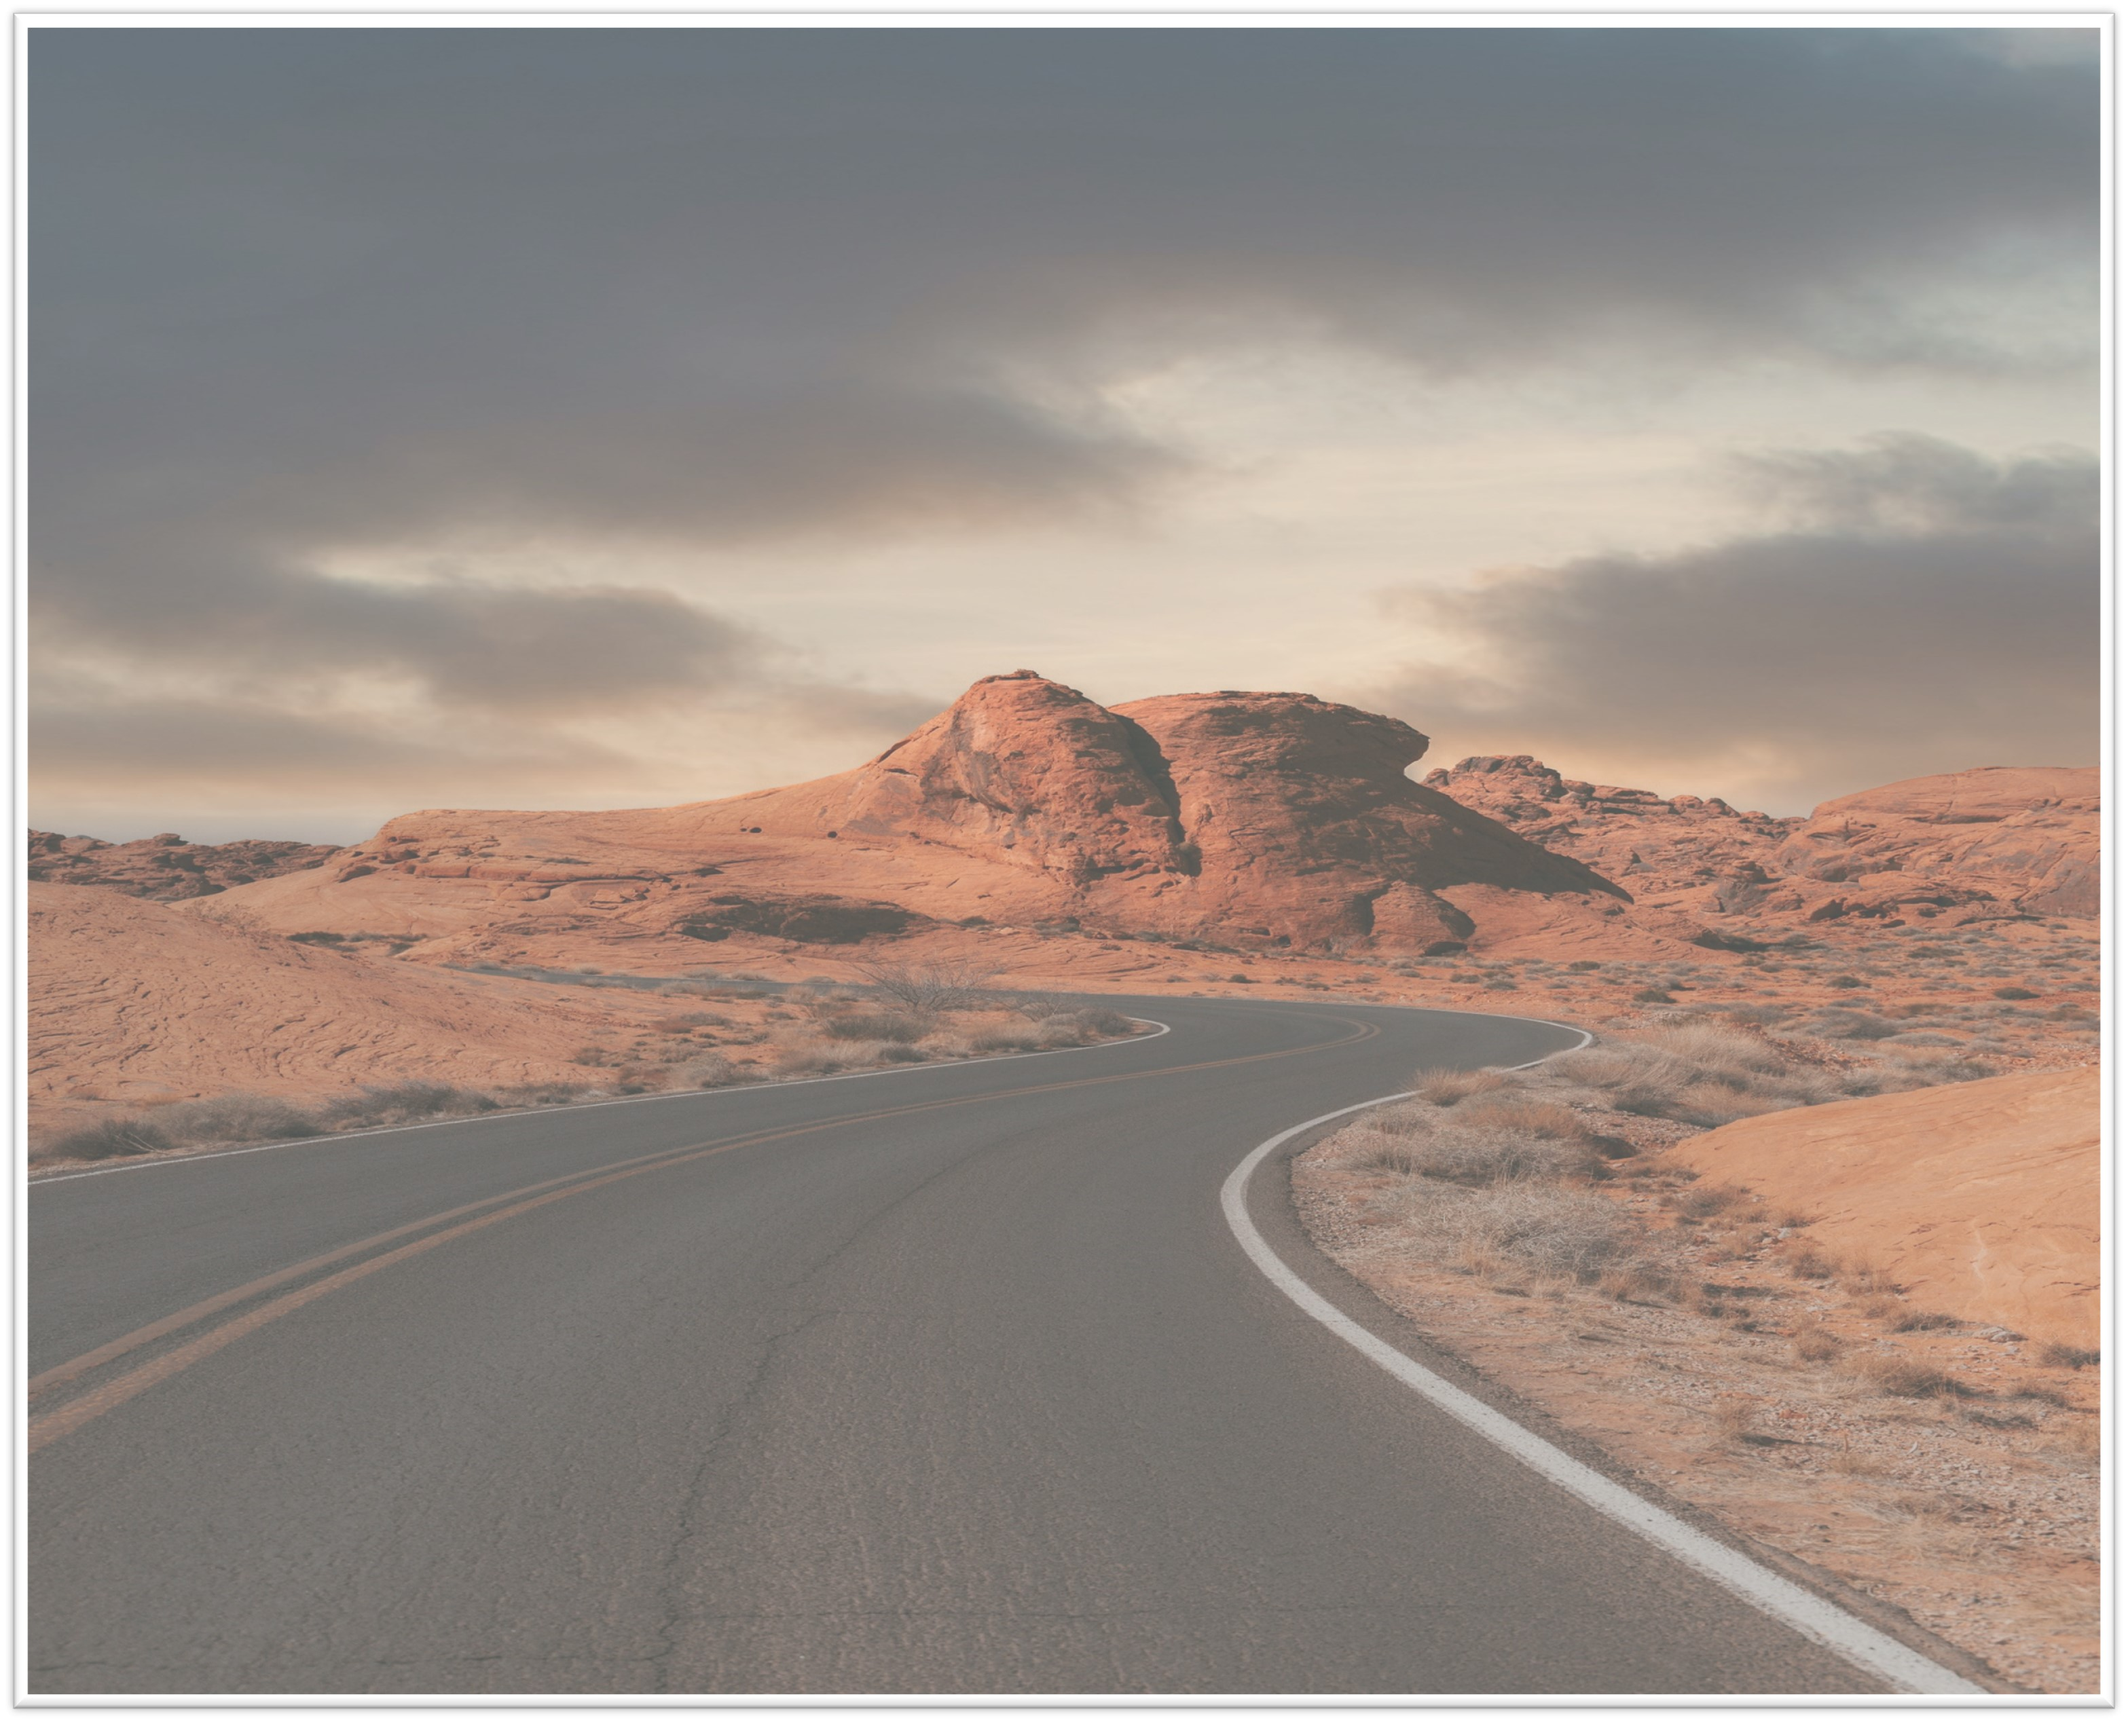
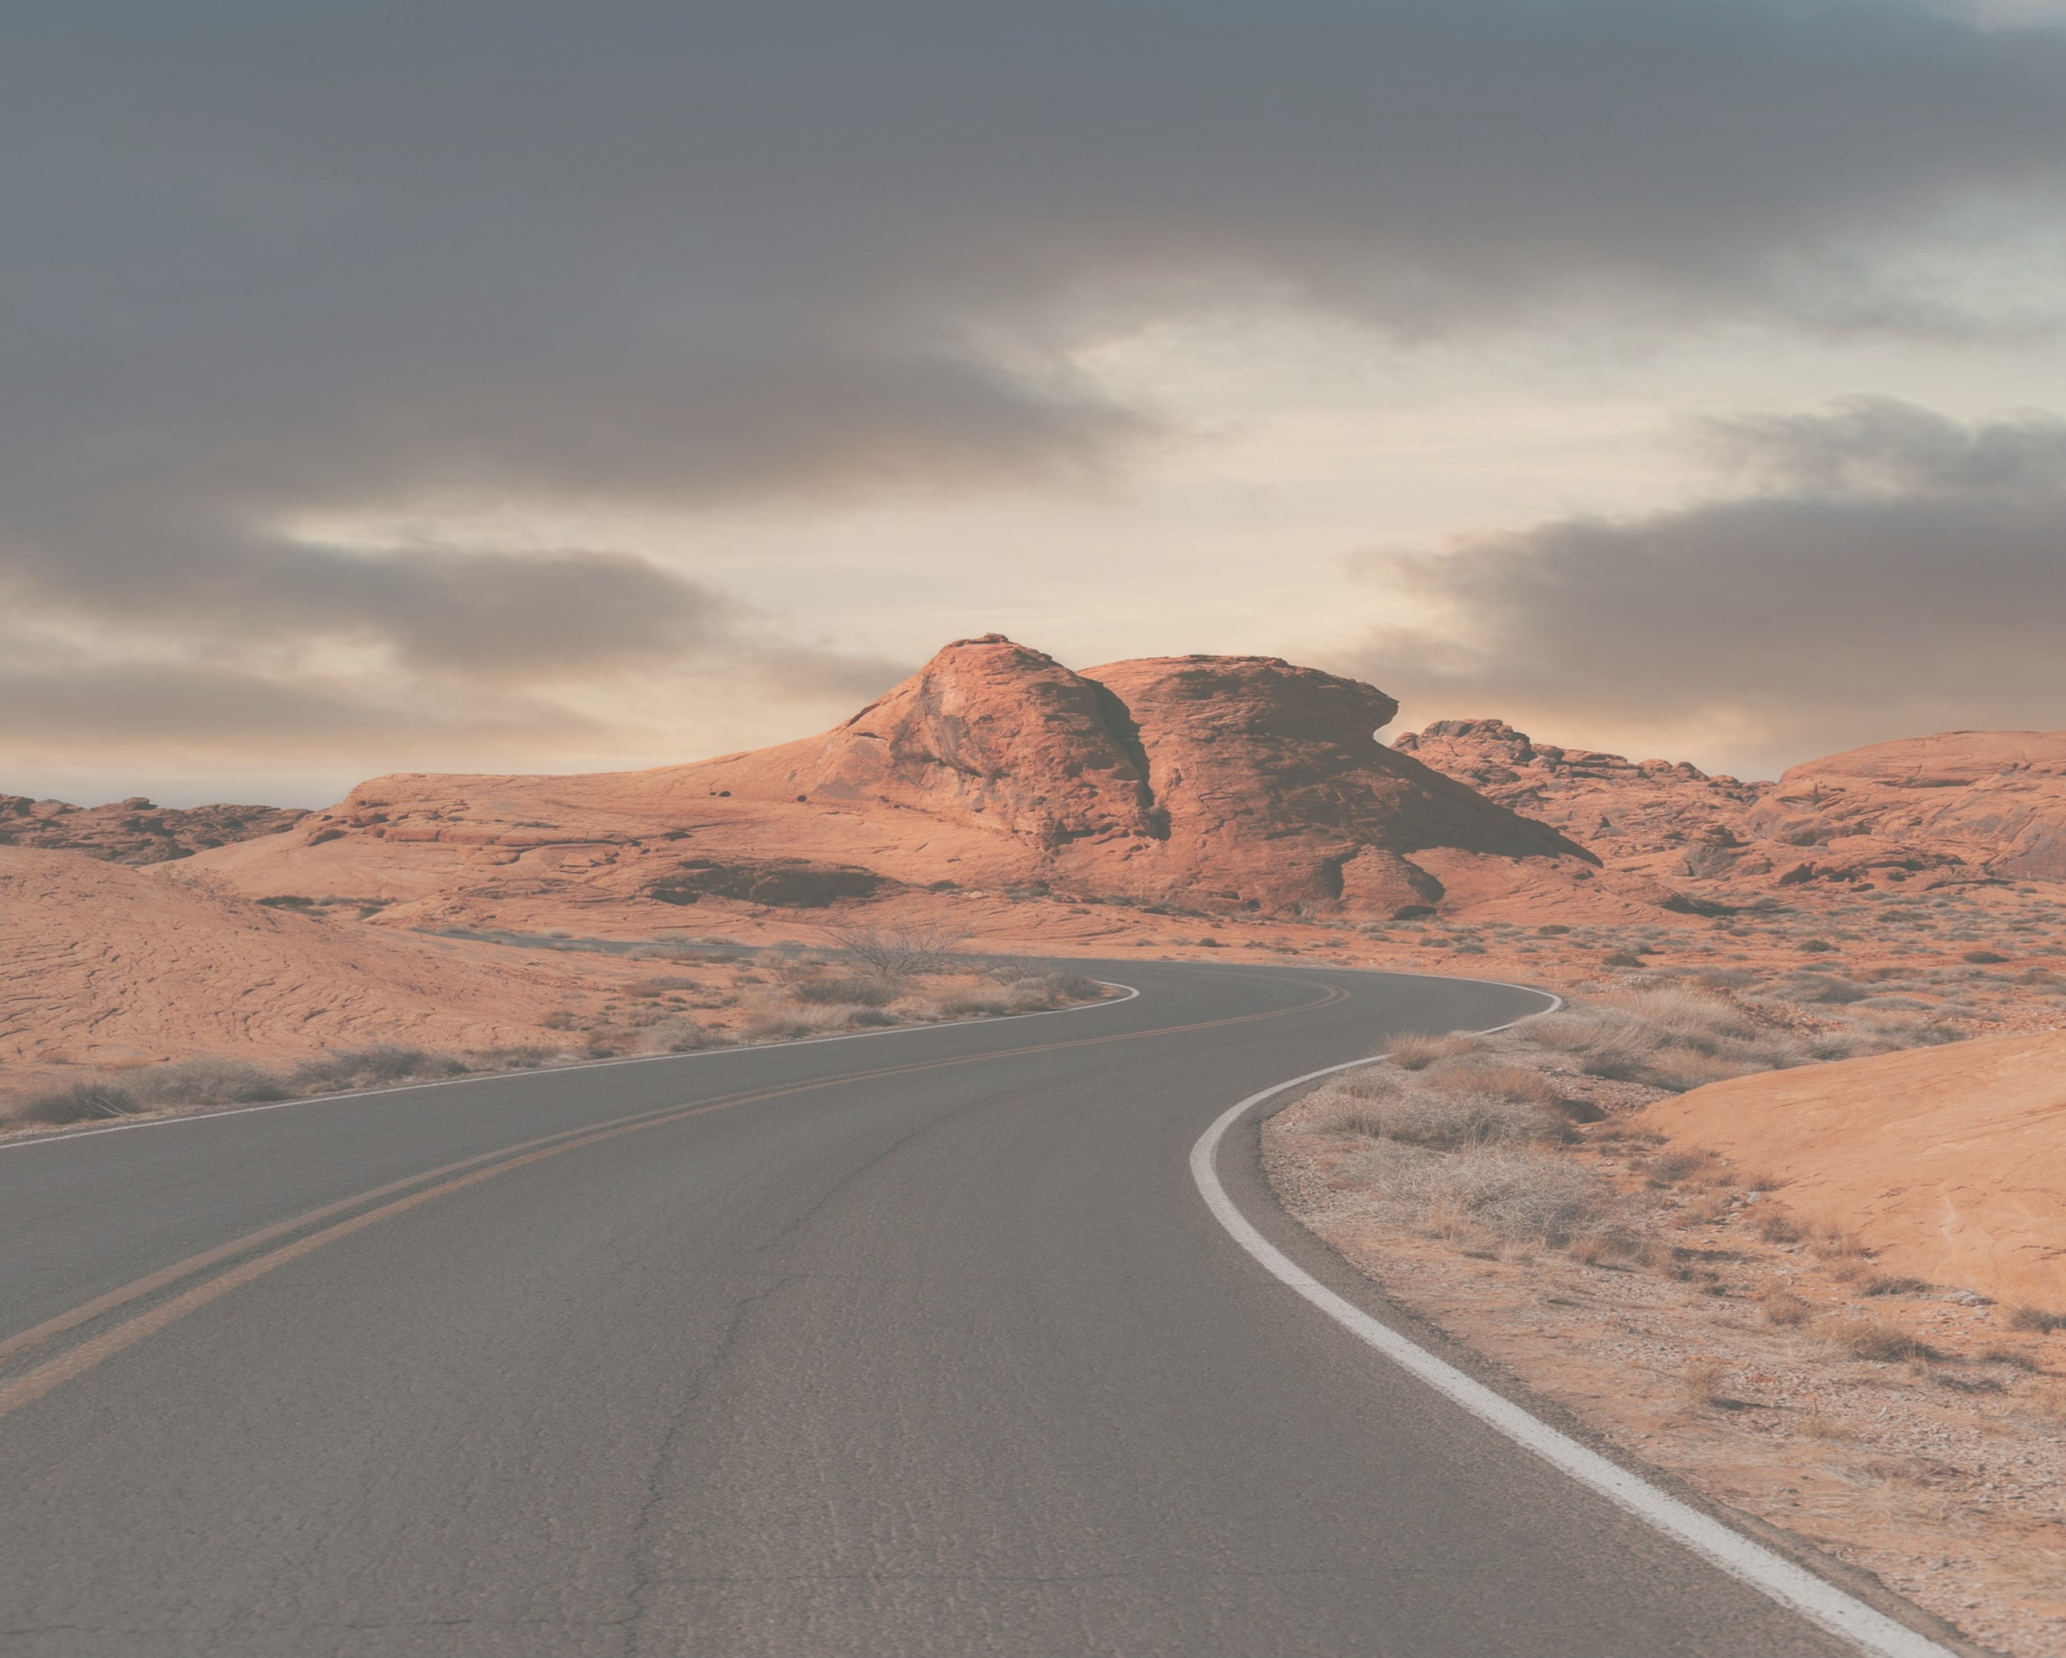
navbar scroll

diff --git a/assets/style.css b/assets/style.css
@@ -1,16 +1,22 @@
-body {
+body,html {
+    height: 100%;
+    margin: 0;
+}
+
+
+/* body {
     background-color: #969696;
     margin: 0px;
     margin-left: 550px;
     padding-top: 200px;
     border: 0px #969696;
 
-}
+} */
 
 .hi {
     color: #ffe174;
     font-family: montserrat;
-    font-weight: lighter;
+    font-weight: 275;
     font-size: 2.0em;
     margin-bottom: 0px;  
 }
@@ -21,34 +27,50 @@ body {
     font-size: 4.0em;
     padding-top: 0px;
     margin-top: 10px;
-    margin-bottom: 40px;    
+    margin-bottom: 10px;    
 }
 
 .desc {
     color: whitesmoke;
     font-family: montserrat;
-    font-weight: lighter;
+    font-weight: 275;
     font-size: 1.5em;
     margin-top: 0px;
 }
 
 button {
-    background-color:#969696;
-    color: rgb(42, 40, 40);
+    background-color:#96969698;
+    color: whitesmoke;
     font-family: montserrat;
     font-size: 20px;
+    font-weight: 500;
     padding: 5px 5px;
     text-align: center;
     border: 3px solid #ffe174;
     border-radius: 30px;
-    margin-top: 250px;
+    margin-top: 200px;
     margin-left: 200px;
    
 }
 
 button:hover {
-    background-color: rgb(219, 81, 31);
+    background-color: rgba(255, 255, 0, 0.569);
     border: none;
+}
+
+.hero {
+    background-image: linear-gradient(rgba(210, 205, 205, 0.596), rgba(0, 0, 0, 0.5)),url("./journey.jpg");
+    background-position: center;
+    background-repeat: no-repeat;
+    background-size: cover;
+    position: relative;
+    height: 100%;
+}
+
+.hero-text {
+    margin: 0px;
+    margin-left: 550px;
+    padding-top: 200px;
 }
 
 

diff --git a/index.html b/index.html
@@ -11,14 +11,27 @@
 
 </head>
 <body>
-    <h2 class="hi">Hello, I'm</h2>
-    <h1 id="name">Vanese Buchanan</h1>
-    <p class="desc">I’m a full stack web developer with a passion for working
-        <br> 
-        with front end technologies.   
-    </p>
-    <button type="button">Start the jouney!</button>
+    <div class="hero">
+        <div class="hero-text">
+            <h2 class="hi">Hello, I'm</h2>
 
+            <h1 id="name">Vanese Buchanan</h1>
+            <p class="desc">I’m a full stack web developer with a passion for working
+            <br> 
+            with front end technologies.   
+            </p>
+        <button type="button">Start the jouney!</button>
+        </div>
+    </div>
+    <section id="navbar">
+        <div class="container">
+            <h2>About Me</h2>
+            <p></p>
+
+        </div>
+
+
+    </section>
 
 
    
